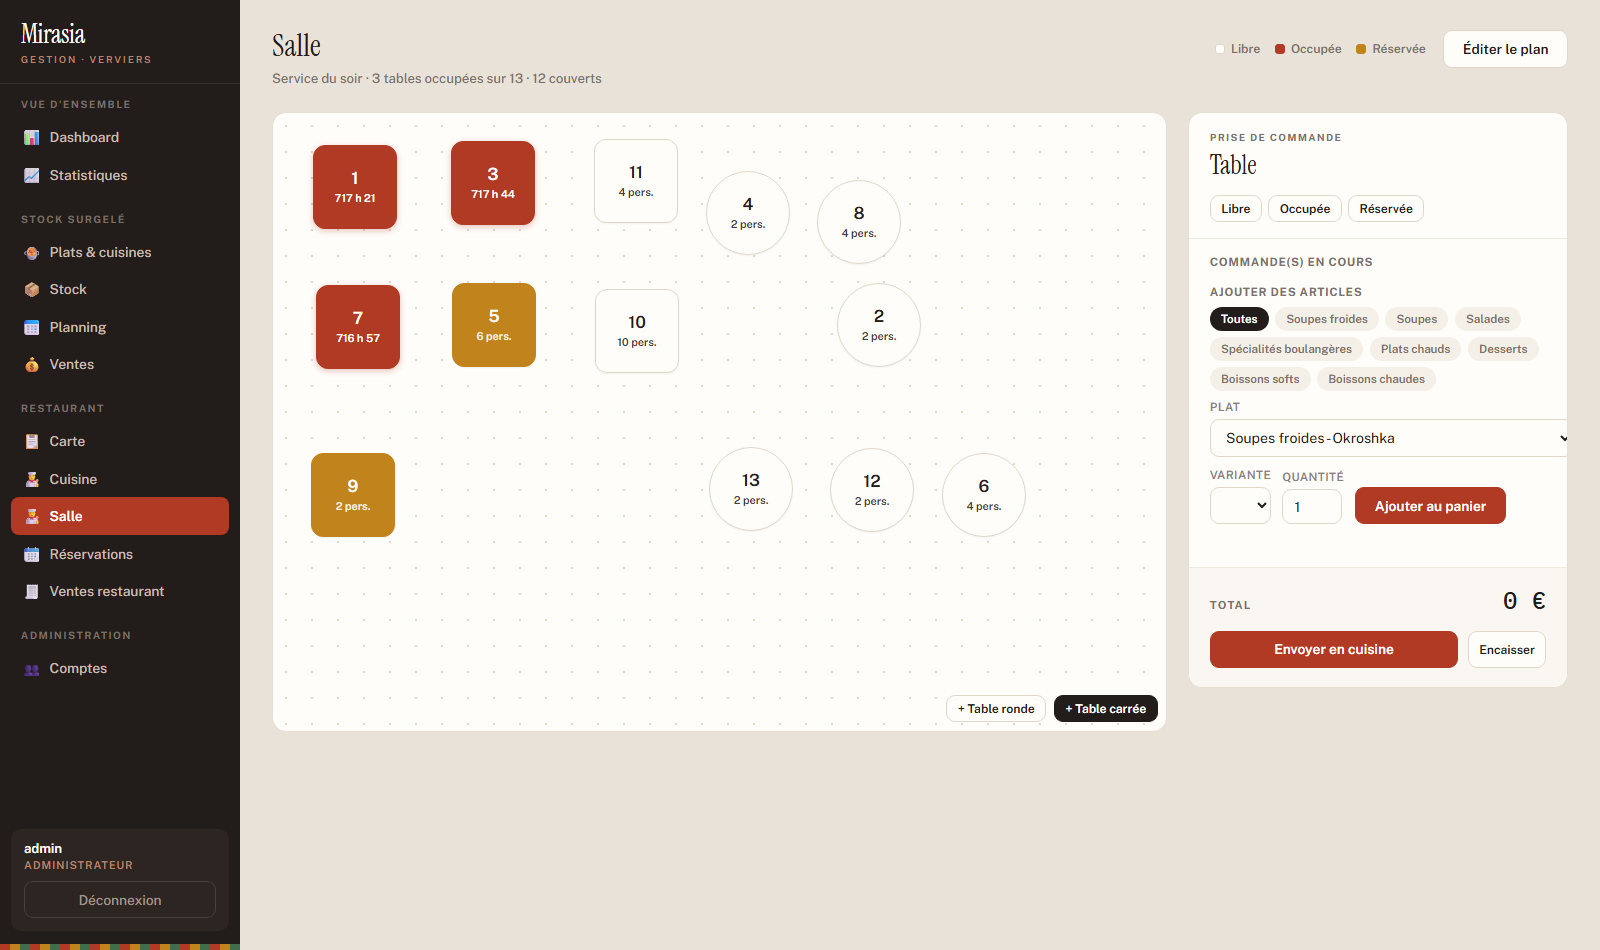
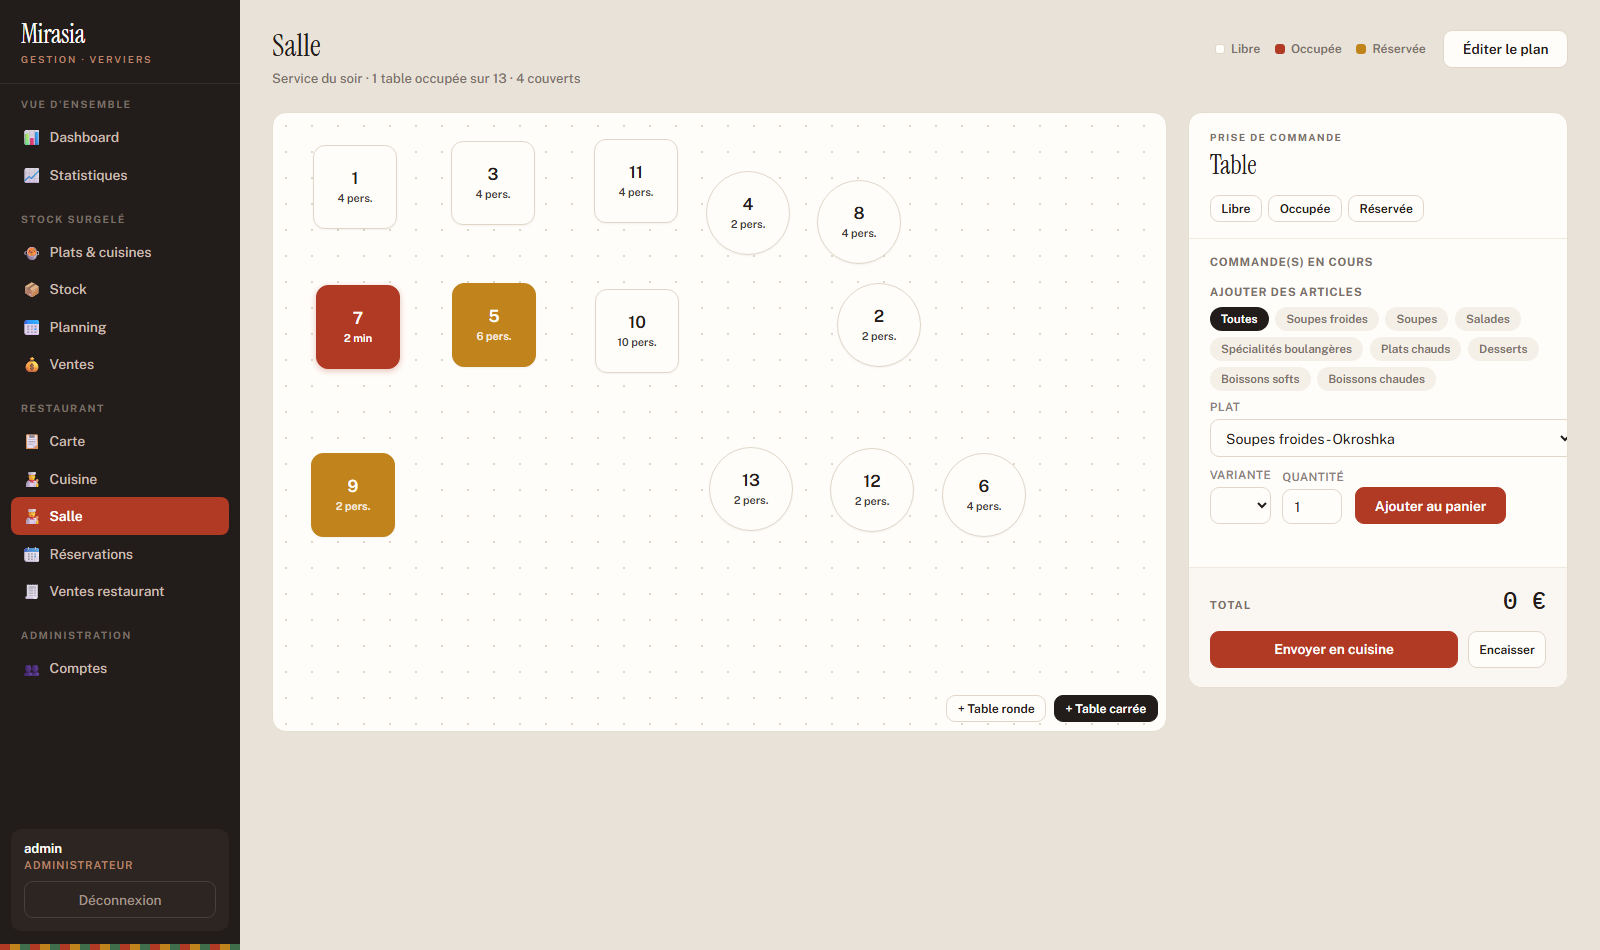
Audit : le suivi public de commande exposait nom et telephone des clients
Trouve en auditant le projet pour illustrer les captures du portfolio.

GET /api/commandes-client/:id est volontairement ouvert, pour qu'un client
suive sa commande sans compte. Mais la requete faisait SELECT c.* et renvoyait
donc toutes les colonnes, dont nom_client et telephone_client, alors que
l'identifiant de commande est sequentiel. N'importe qui pouvait parcourir
/1, /2, /3 et reconstituer le carnet d'adresses du restaurant. Verifie sur la
demo en ligne, sans aucune authentification : les champs sortaient bien.

Aucune fuite reelle a ce jour, la demo ne contient que des contacts fictifs.
Mais la faille est de conception, pas d'inattention : chaque ligne prise
isolement est correcte, c'est l'association d'une route publique, d'un SELECT *
et d'un identifiant previsible qui cree le probleme.

Correction volontairement minimale : la route publique retire nom_client et
telephone_client de sa reponse. Le suivi continue de fonctionner, le front
n'utilisait que le statut. Le personnel authentifie garde l'acces complet via
GET / et l'export CSV, tous deux derriere requireRole.

Un test de non-regression est ajoute : il verifie a la fois que le suivi public
ne divulgue rien et que le staff voit toujours le nom, pour qu'un futur
elargissement de la requete echoue au lieu de rouvrir la faille en silence.

Deux autres correctifs issus du meme audit :

/api/health renvoyait err.message brut sur une route publique, ce qui exposait
[…]

diff --git a/mirasia-gestion/tests/api.test.js b/mirasia-gestion/tests/api.test.js
@@ -2,6 +2,13 @@
 // jamais sur la base réelle du restaurant. Voir README pour la mise en place.
 process.env.DB_NAME = "mirasia_test";
 process.env.NODE_ENV = "test";
+// Garde-fou indispensable : src/db/pool.js donne la priorité à DATABASE_URL sur
+// les variables DB_* ci-dessus. Si cette variable est présente dans
+// l'environnement (typiquement pour inspecter la base de production depuis un
+// poste local), les tests s'exécuteraient dessus et le TRUNCATE plus bas
+// effacerait les vraies données. On la retire donc avant tout require, pool.js
+// lisant l'environnement au moment de son chargement.
+delete process.env.DATABASE_URL;
 process.env.ADMIN_USERNAME = process.env.ADMIN_USERNAME || "test-admin";
 process.env.ADMIN_PASSWORD = process.env.ADMIN_PASSWORD || "test-password";
 process.env.SESSION_SECRET = process.env.SESSION_SECRET || "test-secret";
@@ -267,6 +274,33 @@ test("commandes-client : création publique, prix recalculé côté serveur", as
   assert.equal(res.status, 201);
   assert.equal(res.body.total, "30.00"); // 15 x 2, prix de la variante, pas celui envoyé par le client
   commandeClientId = res.body.id;
+});
+
+test("commandes-client : le suivi public ne divulgue aucune donnée personnelle", async () => {
+  // La route de suivi est ouverte a tous, et l'identifiant de commande est
+  // sequentiel : n'importe qui peut donc parcourir /1, /2, /3. Elle ne doit
+  // jamais renvoyer le nom ni le telephone du client, sans quoi le carnet
+  // d'adresses du restaurant devient lisible par tout le monde.
+  const creation = await request(app)
+    .post("/api/commandes-client")
+    .send({
+      mode: "a_emporter",
+      nom_client: "Client Temoin",
+      telephone_client: "0470 00 00 00",
+      lignes: [{ id_plat: platCarteId, id_variante: variantePouletId, quantite: 1 }],
+    });
+  assert.equal(creation.status, 201);
+
+  const suivi = await request(app).get(`/api/commandes-client/${creation.body.id}`);
+  assert.equal(suivi.status, 200);
+  assert.equal(suivi.body.statut, "recu"); // le suivi reste fonctionnel
+  assert.equal(suivi.body.nom_client, undefined);
+  assert.equal(suivi.body.telephone_client, undefined);
+
+  // Le personnel authentifie, lui, doit toujours y avoir acces pour servir le client.
+  const cotePersonnel = await agent.get("/api/commandes-client");
+  const commande = cotePersonnel.body.find((c) => c.id === creation.body.id);
+  assert.equal(commande.nom_client, "Client Temoin");
 });
 
 test("commandes-client : refuse un plat indisponible", async () => {

diff --git a/mirasia-gestion/public/statistiques.js b/mirasia-gestion/public/statistiques.js
@@ -6,15 +6,20 @@ function formatDateCourte(iso) {
   return new Date(iso).toLocaleDateString("fr-BE", { day: "2-digit", month: "2-digit" });
 }
 
+// Cette page ne couvre que le module stock surgele (table `commandes`).
+// Les ventes du restaurant vivent dans `commandes_client` et s'affichent dans
+// « Ventes restaurant » et sur le dashboard. Sans cette precision, une page
+// affichant 0 EUR pendant que le dashboard affiche le chiffre du jour se lit
+// comme un bug.
 async function loadStatistiques() {
   const res = await fetch("/api/statistiques");
   const data = await res.json();
 
   const statsEl = document.getElementById("stats");
   statsEl.innerHTML = `
-    <div class="stat-box"><div class="stat-icon">💶</div><div class="value">${formatEuros(data.totaux.chiffre_affaires_total)}</div><div class="label">Chiffre d'affaires total</div></div>
+    <div class="stat-box"><div class="stat-icon">💶</div><div class="value">${formatEuros(data.totaux.chiffre_affaires_total)}</div><div class="label">Chiffre d'affaires stock surgelé</div></div>
     <div class="stat-box"><div class="stat-icon">🍽</div><div class="value">${data.totaux.plats_vendus}</div><div class="label">Plats vendus</div></div>
-    <div class="stat-box"><div class="stat-icon">🧾</div><div class="value">${data.totaux.nombre_ventes}</div><div class="label">Ventes enregistrées</div></div>
+    <div class="stat-box"><div class="stat-icon">🧾</div><div class="value">${data.totaux.nombre_ventes}</div><div class="label">Ventes de stock enregistrées</div></div>
   `;
 
   const maxVendu = Math.max(1, ...data.top_plats.map((p) => Number(p.total_vendu)));

diff --git a/mirasia-gestion/public/statistiques.html b/mirasia-gestion/public/statistiques.html
@@ -15,21 +15,21 @@
 </head>
 <body data-page="statistiques.html" data-roles="admin">
   <header class="topbar">
-    <h1>Statistiques</h1>
+    <h1>Statistiques – stock surgelé</h1>
   </header>
   <main>
     <div class="stats" id="stats"></div>
 
     <div class="card">
-      <h2>🏆 Top plats vendus</h2>
+      <h2>🏆 Top plats vendus (stock surgelé)</h2>
       <div id="top-plats"></div>
-      <p class="empty" id="empty-top-plats" hidden>Aucune vente enregistrée pour l'instant.</p>
+      <p class="empty" id="empty-top-plats" hidden>Aucune vente de stock surgelé enregistrée. Les ventes du restaurant se consultent dans « Ventes restaurant ».</p>
     </div>
 
     <div class="card">
-      <h2>📈 Chiffre d'affaires (14 derniers jours)</h2>
+      <h2>📈 Chiffre d'affaires du stock surgelé (14 derniers jours)</h2>
       <div id="ventes-jour"></div>
-      <p class="empty" id="empty-ventes-jour" hidden>Aucune vente sur les 14 derniers jours.</p>
+      <p class="empty" id="empty-ventes-jour" hidden>Aucune vente de stock surgelé sur les 14 derniers jours.</p>
     </div>
   </main>
   <script src="guard.js"></script>

diff --git a/mirasia-gestion/src/routes/commandesClient.js b/mirasia-gestion/src/routes/commandesClient.js
@@ -153,6 +153,12 @@ router.get("/export.csv", requireRole("admin"), async (req, res) => {
 });
 
 // Suivi d'une commande (public : le client vérifie le statut de sa commande).
+//
+// Cette route est volontairement ouverte, mais l'identifiant est séquentiel :
+// n'importe qui peut donc parcourir /1, /2, /3 et lire toutes les commandes.
+// On ne renvoie pour cette raison aucune donnée personnelle ici. Le nom et le
+// téléphone du client restent accessibles au personnel authentifié, via
+// GET / et l'export CSV, tous deux protégés par requireRole.
 router.get("/:id", async (req, res) => {
   try {
     const result = await pool.query(
@@ -162,7 +168,8 @@ router.get("/:id", async (req, res) => {
     if (result.rows.length === 0) {
       return res.status(404).json({ message: "Commande introuvable." });
     }
-    res.json(result.rows[0]);
+    const { nom_client, telephone_client, ...commandePublique } = result.rows[0];
+    res.json(commandePublique);
   } catch (err) {
     handleDbError(err, res);
   }

diff --git a/mirasia-gestion/src/index.js b/mirasia-gestion/src/index.js
@@ -55,7 +55,12 @@ app.get("/api/health", async (req, res) => {
     const result = await pool.query("SELECT NOW()");
     res.json({ status: "ok", db_time: result.rows[0].now });
   } catch (err) {
-    res.status(500).json({ status: "error", message: err.message });
+    // Route publique : le message d'erreur PostgreSQL brut renseignerait un
+    // inconnu sur l'infrastructure (hote, utilisateur, nom de base). On journalise
+    // le detail cote serveur et on ne renvoie qu'un statut. Le code 500 suffit au
+    // healthcheck de Render et au workflow keep-alive pour detecter la panne.
+    console.error("healthcheck en echec :", err);
+    res.status(500).json({ status: "error" });
   }
 });
 

diff --git a/README.md b/README.md
@@ -42,7 +42,7 @@ Application de gestion complète pour le restaurant Mirasia, développée en sol
 - **Comptes et rôles** : comptes staff individuels, mots de passe hachés (scrypt), 3 rôles (admin, cuisine, salle) avec navigation et API filtrées
 - **Interfaces** : dashboard analytique (ventes du jour, historique 10 jours, préparations, plats sous seuil), plan de salle personnalisable avec tables déplaçables et durée d'occupation réelle, écran cuisine, carte publique, commande client, réservations
 - **Identité visuelle** propre, maquettes conçues sur claude.ai/design
-- **Qualité et déploiement** : 30 tests d'intégration automatisés (node:test + supertest), Dockerfile et docker-compose, mise en ligne sur Render
+- **Qualité et déploiement** : 31 tests d'intégration automatisés (node:test + supertest), Dockerfile et docker-compose, mise en ligne sur Render
 - **En cours** : websockets pour l'écran cuisine en temps réel, notifications automatiques sur alertes de stock, module caisse
 
 **Stack** : Node.js, Express, PostgreSQL, PL/pgSQL, Docker
